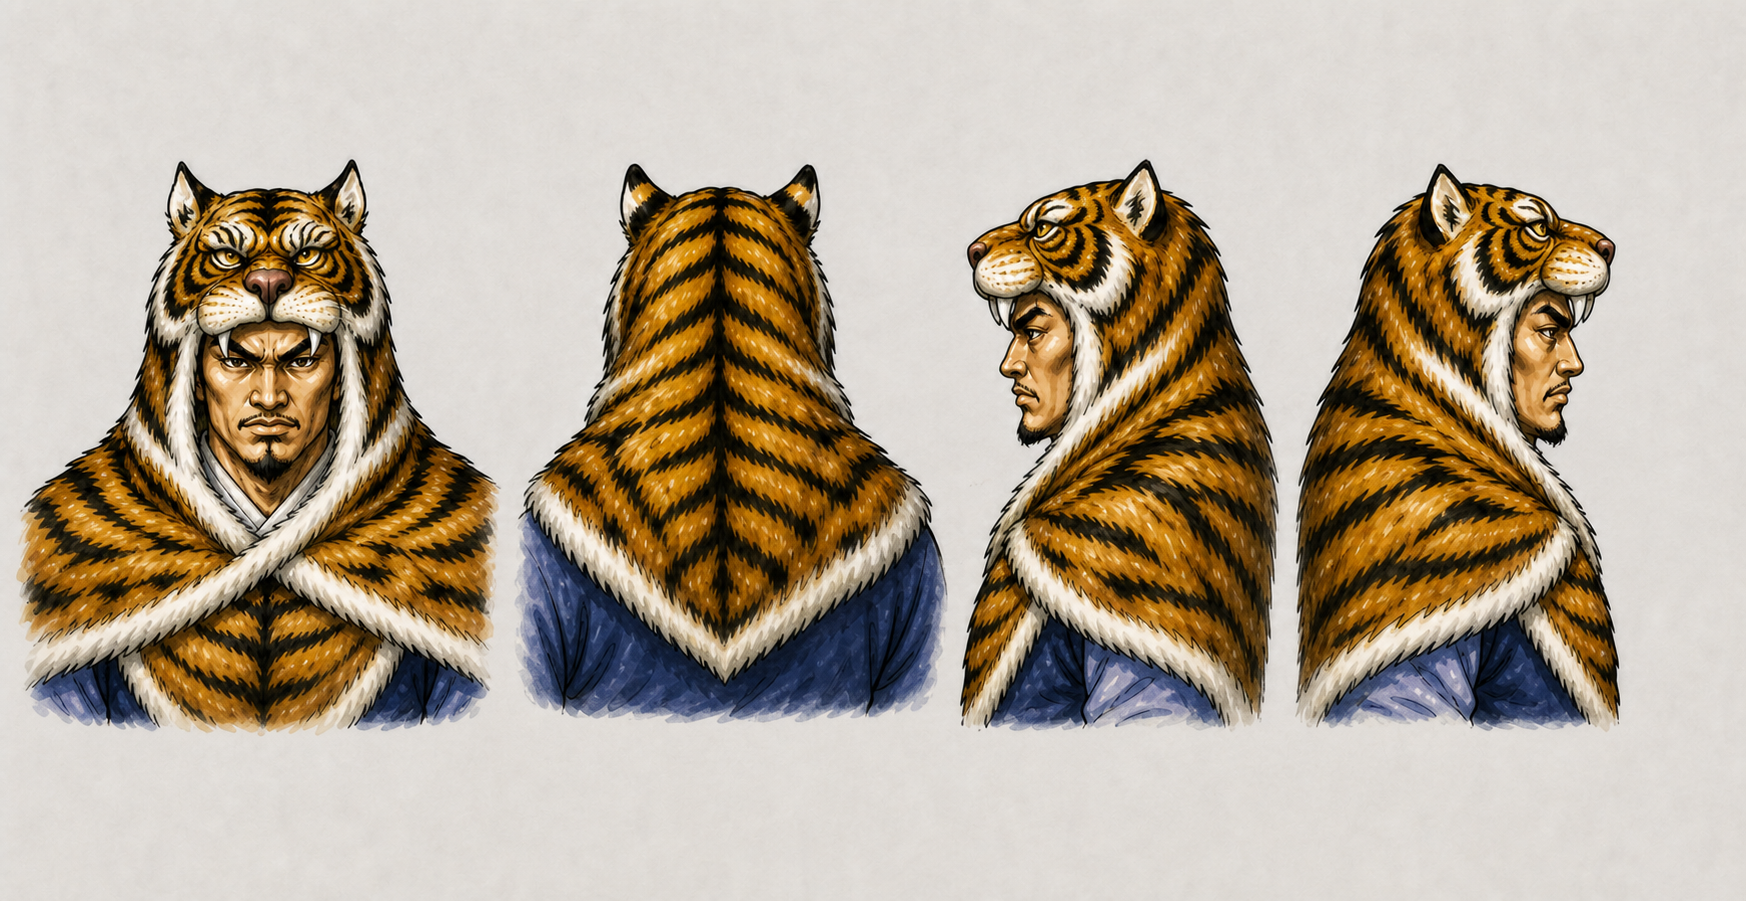
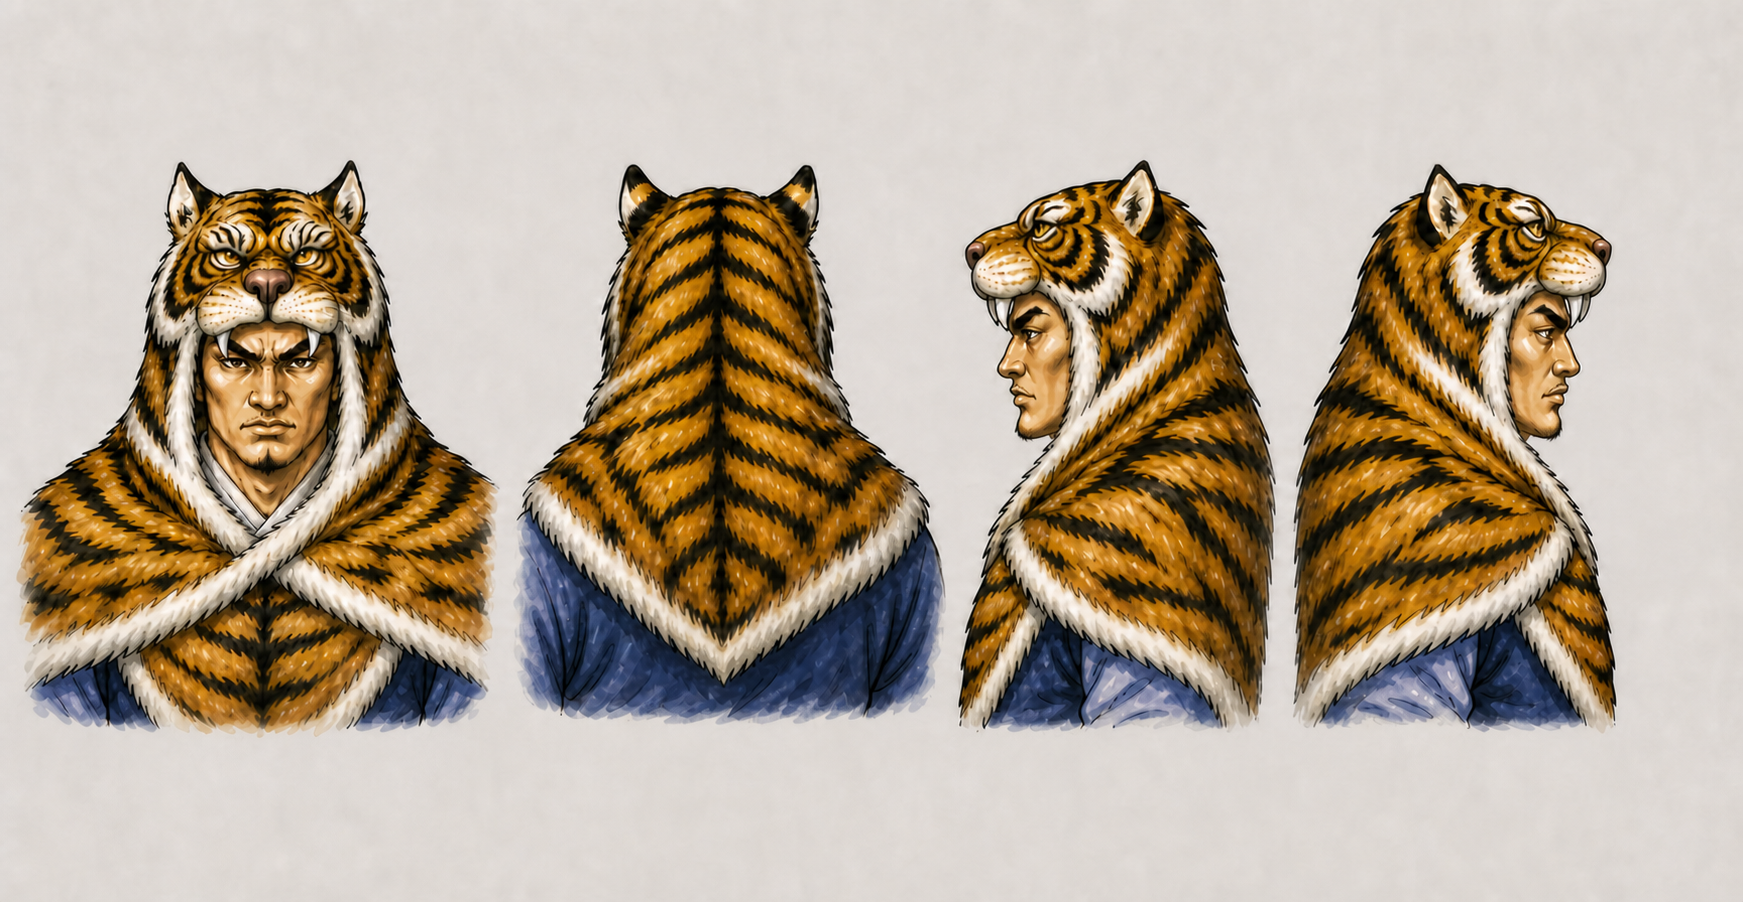
fix(034): 修正角色无胡须设定
依据原图将人脸特征更正为无胡须，并更新头部四视图、角色规格、生成提示与复核记录。保留返修前版本以便追溯。

Changed region(s): [[0.0, 0.1865, 0.5267, 0.808], [0.5577, 0.1865, 0.9294, 0.808]]

diff --git a/character-model-sheets/characters/034/review-notes.md b/character-model-sheets/characters/034/review-notes.md
@@ -24,7 +24,15 @@
 ## 2026-08-21 头部四视图补充
 
 - [x] 已生成 `head-sheet.png`，严格按正面、纯后脑、角色自身左侧面、角色自身右侧面排列。
-- [x] 四张保持同一身份、颅骨体积、发型／头戴、胡须、颈部尺度、裁切、光照和固定复古手绘画风。
+- [x] 四张保持同一身份、颅骨体积、发型／头戴、无胡须人脸、颈部尺度、裁切、光照和固定复古手绘画风。
 - [x] 纯后脑没有出现面部；左右侧面来自角色不同解剖侧，未用表情变化代替视角变化。
 - [x] 原图未展示的后脑与连接结构继续按规格中的 `inferred`／`unknown` 克制处理，不宣称为原作事实。
+- 状态保持 `generated`，等待用户批准。
+
+## 2026-08-22 无胡须证据修正
+
+- [x] 用户确认原图人脸不带胡须；规格中的“黑色短须”已更正为原图确认的无胡须。
+- [x] `head-sheet.png` 已做两次局部返修，正面、左侧面和右侧面均移除髭、山羊胡、下巴短须与胡茬；第二次仅清理正面下唇至下巴的残余须状深色笔触，纯后脑保持不变。
+- [x] 虎皮毛发与虎须不属于人物胡须，返修中保持原样。
+- [x] 中立六视图、原画姿态版和武器比例人物经复核未见明确人脸胡须，无需重绘；相关提示已加入无胡须硬约束。
 - 状态保持 `generated`，等待用户批准。
